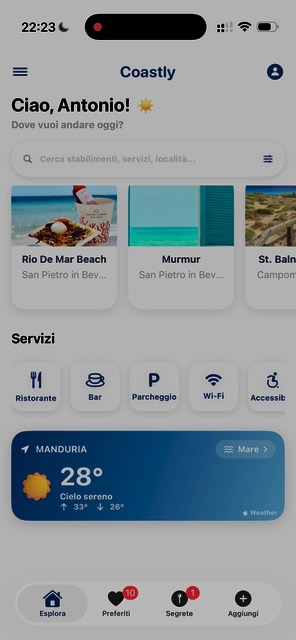
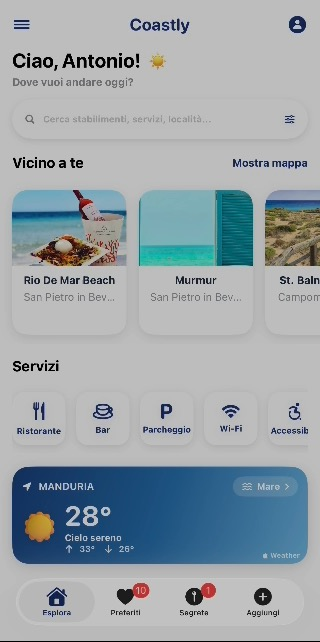
Come funziona: ritaglia status bar/Dynamic Island dal video (no doppia island)
Crop top 210px via Swift/AVFoundation, video ora 320x642 4.4MB; cache-bust v2.

diff --git a/index.html b/index.html
@@ -987,7 +987,7 @@
       <div class="container split">
         <div class="phone-col wow fadeInUp" data-wow-delay="300ms">
           <div class="iphone-air">
-            <video src="video/come-funziona.mp4" poster="video/come-funziona-poster.jpg" autoplay loop muted playsinline preload="metadata" aria-label="Video dimostrativo dell'app Coastly"></video>
+            <video src="video/come-funziona.mp4?v=2" poster="video/come-funziona-poster.jpg?v=2" autoplay loop muted playsinline preload="metadata" aria-label="Video dimostrativo dell'app Coastly"></video>
           </div>
         </div>
         <div>